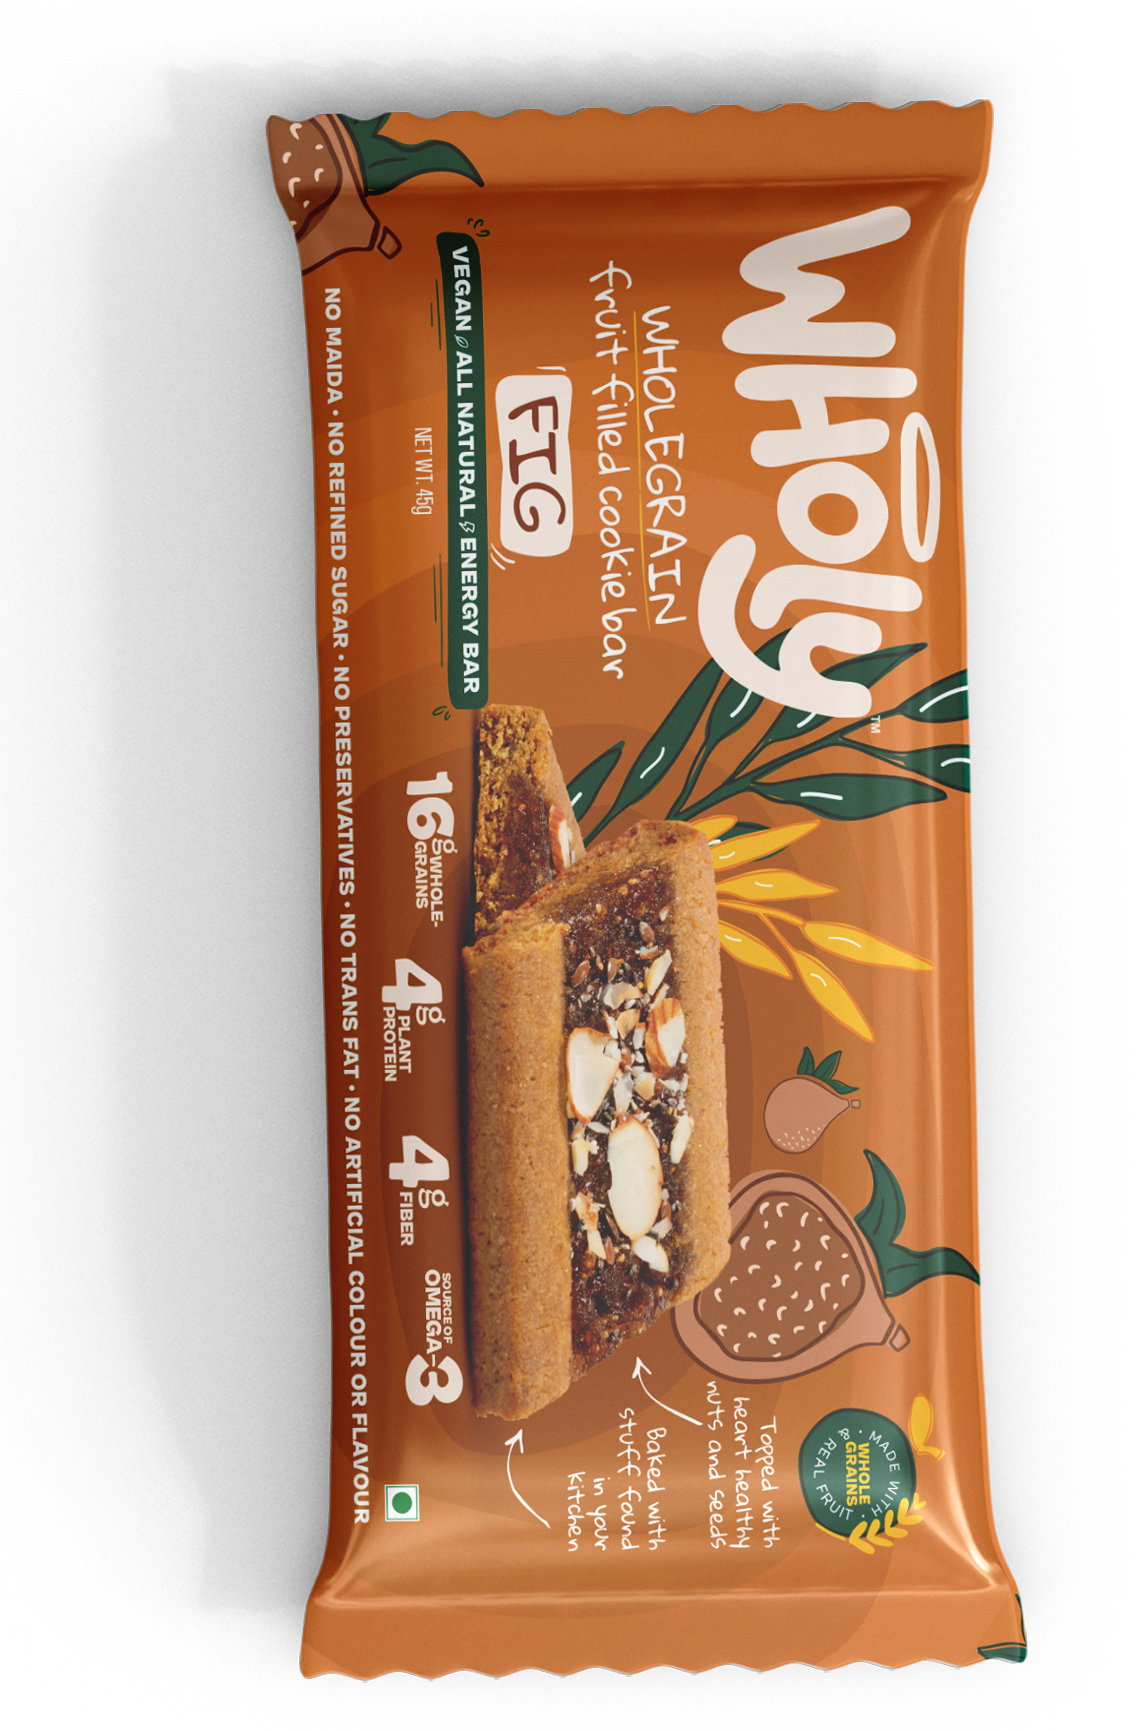
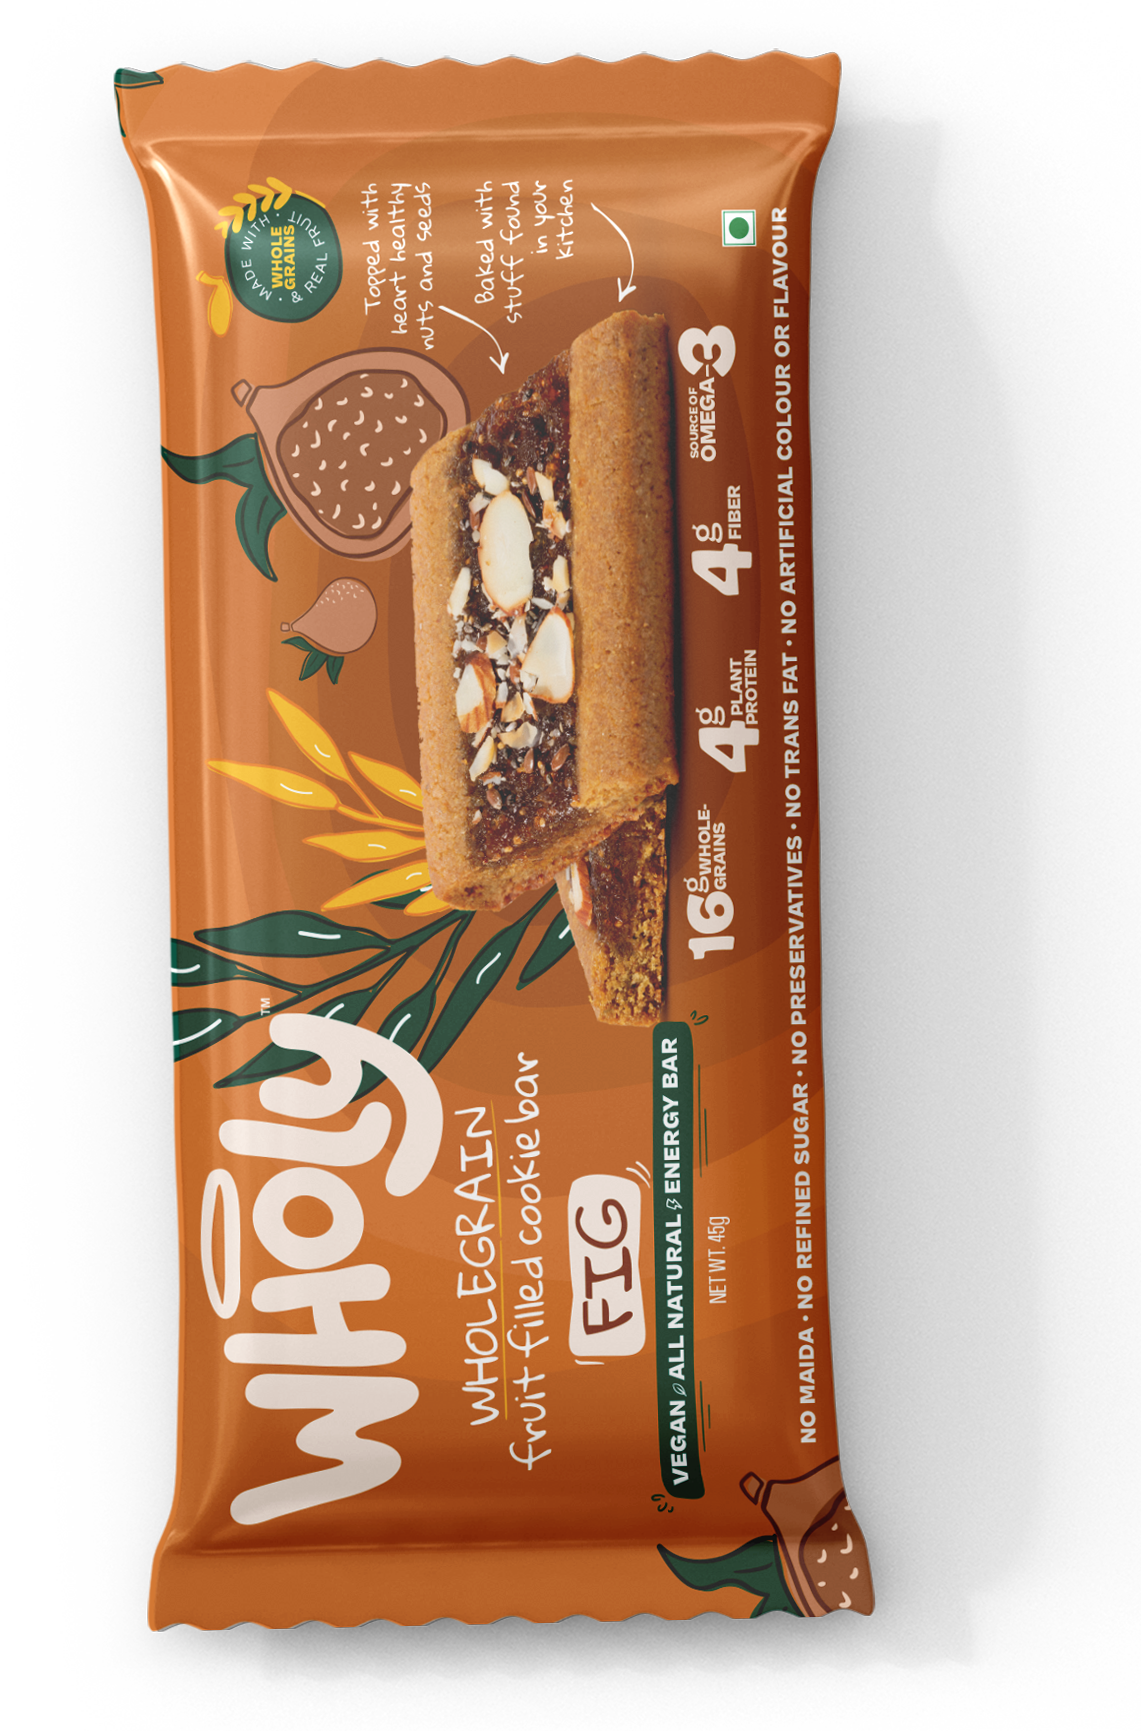
Using portrait wrapped cookie whereever needed

diff --git a/components/common/cart/add_more_area/product_card/product_card.tsx b/components/common/cart/add_more_area/product_card/product_card.tsx
@@ -1,0 +1,50 @@
+import { CSSProperties, FC, useContext, useState } from "react";
+import Image from "next/image";
+
+import styles from "./product_card_styles.module.scss";
+import classNames from "classnames";
+import { FlippingCard } from "../../../../flipping_card/flipping_card";
+import { UIProduct } from "../../../../../product_ui_details/ui_product";
+import { VisibleFace } from "../../../../flipping_card/visible_face_enum";
+import { FrontFace } from "../../../../flipping_card/front_face";
+import { BackFace } from "../../../../flipping_card/back_face";
+import { CartController, CartControllerContext } from "../../cart_controller";
+
+export interface ProductCardProps {
+    style?: CSSProperties;
+    className?: string;
+    uiProduct: UIProduct;
+}
+
+export const ProductCard: FC<ProductCardProps> = (props) => {
+    const controller: CartController = useContext(CartControllerContext)!;
+    const [isHovering, setIsHovering] = useState<boolean>(false);
+
+    return (
+        <div className={styles.product_card}>
+            <div className={styles.flipping_card_container}>
+                <FlippingCard 
+                    visibleFace={(!isHovering) ? VisibleFace.front : VisibleFace.back} 
+                    duration={800}
+                    onMouseEnter={(event) => setIsHovering(true)} onMouseLeave={(event) => setIsHovering(false)}
+                    style={{backgroundColor: props.uiProduct.color, ...props.style}} className={classNames(styles.flipping_card, props.className)}>
+                    <FrontFace className={styles.front_face}>
+                        <Image src={props.uiProduct.wrappedCookiePortraitImage} alt="" className={styles.cookie} />
+                    </FrontFace>
+
+                    <BackFace>
+                        <h1>Hi</h1>
+                    </BackFace>
+                    
+                    <Image src={props.uiProduct.fruits[0]} alt="" className={classNames(styles.corner_fruit, styles.top_right_fruit)} />
+                    
+                    <Image src={props.uiProduct.fruits[0]} alt="" className={classNames(styles.corner_fruit, styles.bottom_left_fruit)} />
+                </FlippingCard>
+            </div>
+
+            <button onClick={(event) => { controller.onIncreaseQuantityButtonClicked(props.uiProduct.id) }}>
+                ADD
+            </button>
+        </div>
+    );
+};

diff --git a/components/common/cart/add_more_area/product_card/product_card_styles.module.scss b/components/common/cart/add_more_area/product_card/product_card_styles.module.scss
@@ -1,0 +1,57 @@
+.product_card {
+    .flipping_card_container {
+        height: 128px;
+        
+        .flipping_card {
+            $fruits_width: 24px;
+
+            position: relative;
+            border-radius: 8px;
+            border: 2px solid white;
+            box-shadow: 8px 8px 8px #AAAAAA;
+            align-items: center;    
+
+            .corner_fruit {
+                width: $fruits_width;
+                height: auto;
+            }
+
+            .top_right_fruit {
+                position: absolute;
+                right: -($fruits_width / 2);
+                top: -($fruits_width / 2);
+            }
+
+            .bottom_left_fruit {
+                position: absolute;
+                left: -($fruits_width / 2);
+                bottom: -($fruits_width / 2);
+                transform: rotate(-32deg);
+            }
+
+            .front_face {
+                position: relative;
+                overflow: hidden;
+                
+                .cookie {
+                    position: absolute;
+                    left: 50%;
+                    top: 0px;
+                    width: 100%;
+                    height: 100%;
+                    object-fit: contain;
+                    transform: translate(-50%, -10%);
+                }
+            }
+        }
+    }
+
+    button {
+        margin-top: 16px;
+        min-width: unset;
+        border-radius: 4px;
+        width: 100%;
+        font-size: 16px;
+        padding: 4px;
+    }
+}

diff --git a/components/common/cart/cart.tsx b/components/common/cart/cart.tsx
@@ -1,7 +1,6 @@
 import { NextRouter, useRouter } from "next/router";
 import { FC, useCallback, useContext, useEffect, useMemo, useState } from "react";
 import CartItem from "../../../models/cart_item";
-import { TotalPriceInfoAreaDetails } from "../../checkout_page/checkout_section/total_price_info_area/total_price_info_area";
 import FirebaseCartBridge from "../../../models/firebase_cart_bridge";
 import { CartController, CartControllerContext } from "./cart_controller";
 import CartBridge from "../../../models/cart_bridge";
@@ -77,10 +76,10 @@ export const Cart: FC<CartProps> = (props) => {
     );
 
     const onDecreaseQuantityButtonClicked = useCallback(
-        async (cartItem: CartItem): Promise<void> => {
+        async (productId: string): Promise<void> => {
             setIsLoading(true);
             
-            await cart.removeProduct(cartItem.product.id, 1);
+            await cart.removeProduct(productId, 1);
             
             setIsLoading(false);
         },
@@ -88,10 +87,10 @@ export const Cart: FC<CartProps> = (props) => {
     );
         
         const onIncreaseQuantityButtonClicked = useCallback(
-            async (cartItem: CartItem): Promise<void> => {
+            async (productId: string): Promise<void> => {
             setIsLoading(true);
             
-            await cart.addProduct(cartItem.product.id, 1);
+            await cart.addProduct(productId, 1);
 
             setIsLoading(false);
         },

diff --git a/components/common/cart/checkout_section/cart_items_list/cart_item_list_item.tsx b/components/common/cart/checkout_section/cart_items_list/cart_item_list_item.tsx
@@ -3,7 +3,6 @@ import Image from "next/image";
 import styles from "./cart_item_list_item_styles.module.scss";
 import classNames from "classnames";
 import CartItem from "../../../../../models/cart_item";
-import { LoadingIndicatorModalWrapperData, loadingIndicatorModalWrapperDataContext } from "../../../../loading_indicator_modal_wrapper/loading_indicator_modal_wrapper_data";
 import { CartController, CartControllerContext } from "../../cart_controller";
 import { Stepper } from "./stepper/stepper";
 
@@ -15,12 +14,12 @@ export const CartItemListItem: FC<CartItemListItemProps> = (props) => {
     const controller: CartController = useContext(CartControllerContext)!;
 
     const onClickDecreaseQuantityButton = useCallback(
-        (): void => controller.onDecreaseQuantityButtonClicked(props.cartItem),
+        (): void => controller.onDecreaseQuantityButtonClicked(props.cartItem.product.id),
         []
     );
         
     const onClickIncreaseQuantityButton = useCallback(
-        (): void => controller.onIncreaseQuantityButtonClicked(props.cartItem),
+        (): void => controller.onIncreaseQuantityButtonClicked(props.cartItem.product.id),
         []                 
     );
 

diff --git a/components/common/cart/add_more_area/add_more_area.tsx b/components/common/cart/add_more_area/add_more_area.tsx
@@ -2,6 +2,8 @@ import classNames from "classnames";
 import { CSSProperties, FC } from "react";
 
 import styles from "./add_more_area_styles.module.scss";
+import { UIProducts } from "../../../../product_ui_details/ui_products";
+import { ProductCard } from "./product_card/product_card";
 
 export interface AddMoreAreaProps {
     style?: CSSProperties;
@@ -12,6 +14,16 @@ export const AddMoreArea: FC<AddMoreAreaProps> = (props) => {
     return (
         <div style={props.style} className={classNames(styles.add_more_area, props.className)}>
             <p>If you like one, quickly add more!</p>
+
+            <div className={styles.products_grid}>
+                {UIProducts.array.map(
+                    (value, array, index) => {
+                        return (
+                            <ProductCard key={value.id} uiProduct={value} />
+                        );
+                    }
+                )}
+            </div>
         </div>
     );
 };

diff --git a/components/common/cart/cart_ui_styles.module.scss b/components/common/cart/cart_ui_styles.module.scss
@@ -11,6 +11,12 @@ $width: 480px;
     width: $width;
     height: 100vh;
     animation: open 500ms forwards;
+
+    @include within_breakpoint($extra_small_breakpoint) {
+        width: 100vw;
+        right: unset;
+        left: 0px;
+    }
     
     .cart {
         position: relative;
@@ -18,6 +24,11 @@ $width: 480px;
         height: 100vh;
         background-color: #f5f5f5;
         overflow-y: scroll;
+        padding-bottom: 32px;
+        
+        @include within_breakpoint($extra_small_breakpoint) {
+            width: 100vw;
+        }
         
         .tool_bar {
             display: flex;
@@ -61,7 +72,7 @@ $width: 480px;
 
         .place_order_button {
             display: block;
-            margin-top: 64px;
+            margin-top: 32px;
             margin-left: auto;
             margin-right: auto;
         }

diff --git a/components/home_page/call_to_action_section/product_card/product_card.tsx b/components/home_page/call_to_action_section/product_card/product_card.tsx
@@ -24,11 +24,8 @@ export const ProductCard: FC<ProductCardProps> = (props) => {
             duration={800}
             onMouseEnter={(event) => setIsHovering(true)} onMouseLeave={(event) => setIsHovering(false)}
             style={{backgroundColor: props.uiProduct.color, ...props.style}} className={classNames(styles.card, props.className)}>
-            <FrontFace>
-                <div className={styles.cookie_container}>
-                    <Image src={props.uiProduct.wrappedCookieImage} alt="" className={styles.cookie} />
-                </div>
-
+            <FrontFace className={styles.front_face}>
+                <Image src={props.uiProduct.wrappedCookiePortraitImage} alt="" className={styles.cookie} />
             </FrontFace>
 
             <BackFace>

diff --git a/components/home_page/call_to_action_section/product_card/product_card_styles.module.scss b/components/home_page/call_to_action_section/product_card/product_card_styles.module.scss
@@ -2,7 +2,6 @@
     $fruits_width: 48px;
 
     position: relative;
-    display: inline-flex;
     border-radius: 16px;
     border: 4px solid white;
     box-shadow: 8px 8px 8px #AAAAAA;
@@ -26,14 +25,18 @@
         transform: rotate(-32deg);
     }
 
-    .cookie_container {
-        display: inline-flex;
+    .front_face {
+        position: relative;
         overflow: hidden;
         
-        .cookie {            
+        .cookie {
+            position: absolute;
+            left: 50%;
+            top: 0px;
             width: 100%;
             height: 100%;
             object-fit: contain;
+            transform: translate(-50%, -10%);
         }
     }
 }

diff --git a/components/shop_page/catalogue_section/catalogue_section.tsx b/components/shop_page/catalogue_section/catalogue_section.tsx
@@ -15,7 +15,7 @@ export const CatalogueSection: FC = (props) => {
 
     return (
         <section id="catalogue" className={classNames("light_theme", styles.section)}>
-            <CarouselProvider totalSlides={UIProducts.array.length} naturalSlideWidth={100} naturalSlideHeight={100} visibleSlides={(breakpoint != Breakpoint.extraSmall) ? 3 : 1}>
+            <CarouselProvider totalSlides={UIProducts.array.length} naturalSlideWidth={100} naturalSlideHeight={110} visibleSlides={(breakpoint != Breakpoint.extraSmall) ? 3 : 1}>
                 <Slider>
                     {UIProducts.array.map(
                         (value, index, array) => {

diff --git a/components/common/cart/checkout_section/cart_items_list/cart_item_list_item_styles.module.scss b/components/common/cart/checkout_section/cart_items_list/cart_item_list_item_styles.module.scss
@@ -26,12 +26,6 @@
         border-radius: 16px;        
         flex-shrink: 0;
 
-        @include within_breakpoint($extra_small_breakpoint) {
-            width: 64px;
-            height: 64px;
-            padding: 4px;
-        }
-
         .product_image {
             width: 100%;
             height: 100%;
@@ -43,11 +37,7 @@
         flex-grow: 1;
         
         .product_name {            
-            font-weight: bold;
-
-            @include within_breakpoint($extra_small_breakpoint) {
-                font-size: 0.7rem;
-            }
+            font-weight: bold;            
         }
 
         .quantity_stepper {

diff --git a/components/home_page/call_to_action_section/call_to_action_section.tsx b/components/home_page/call_to_action_section/call_to_action_section.tsx
@@ -21,7 +21,7 @@ export const CallToActionSection: FC = (props) => {
                         {UIProducts.array.map(
                             (value, index, array) => {
                                 return (
-                                    <div className={styles.product_card_container}>
+                                    <div key={value.id} className={styles.product_card_container}>
                                         <ProductCard uiProduct={value} />
                                     </div>
                                 );

diff --git a/components/common/cart/cart_controller.tsx b/components/common/cart/cart_controller.tsx
@@ -19,8 +19,8 @@ export interface CartController {
 
     readonly onCloseButtonClicked: ()=>void;
 
-    readonly onIncreaseQuantityButtonClicked: (cartItem: CartItem)=>void;
-    readonly onDecreaseQuantityButtonClicked: (cartItem: CartItem)=>void;
+    readonly onIncreaseQuantityButtonClicked: (productId: string)=>void;
+    readonly onDecreaseQuantityButtonClicked: (productId: string)=>void;
 }
 
 export const CartControllerContext: Context<CartController | null> = createContext<CartController | null>(null);
